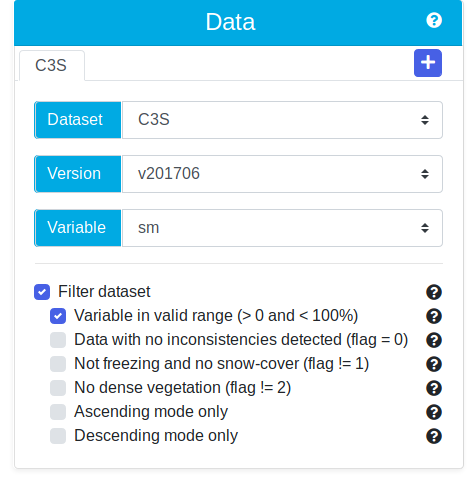
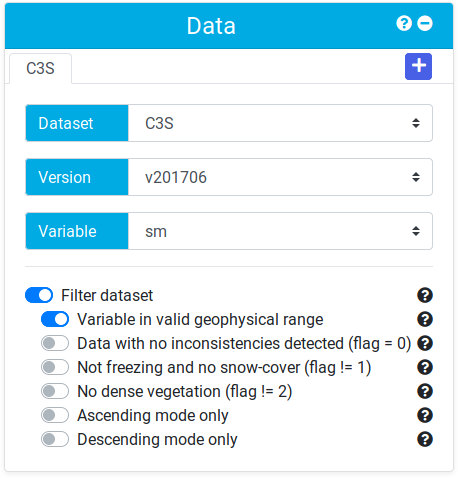
Update online help with new screenshots and description for anomalies and spatial subsetting

Changed region(s): [[0.0611, 0.5565, 0.9476, 0.9372], [0.0306, 0.205, 0.9476, 0.5272], [0.0, 0.0, 1.0, 0.9665]]

diff --git a/validator/templates/validator/help.html b/validator/templates/validator/help.html
@@ -22,6 +22,16 @@
     <h1 class="h3 mb-3 font-weight-normal">Validate Page</h1>
 
     <p>
+        The validate page is subdivided into areas for the various validation parameters. Each area has
+        menu with two icons on the top right. Hover over the question mark to get help for the respective areas. You can
+        use the +/- icon to fold up or fold down the area.
+    </p>
+    <div style="display:flex;">
+        <img class="scaled_image mb-3" src="../../static/images/help/menu_minus.png">
+        <img class="scaled_image mb-3" src="../../static/images/help/menu_plus.png">
+    </div>
+
+    <p>
         <b>Step 1</b> - Choose the data you would like to validate - including the dataset name, the version of the dataset,
         and one of the soil moisture variables provided in the dataset. More details on the supported datasets can be found
         <a href="{% url 'datasets' %}#data">here</a>.
@@ -60,18 +70,40 @@
     <p>
         <b>Step 5 [optional]</b> - Choose the criteria by which you would like to filter the reference data prior to
         running the validation. The filters available depend on the data contained within the chosen dataset. For example,
-        you can filter the ISMN data to include only data points where the soil_moisture_flag is "G" for "good".
+        you can filter the ISMN data to include only data points where the soil_moisture_flag is &quot;G&quot; for &quot;good&quot;.
         Details of the filter options provided for each dataset are given on the supported datasets page
         <a href="{% url 'datasets' %}">here</a>. You can also hover your mouse pointer over the question mark next to a filter
         to get a short explanation.
     </p>
     <p>
-        <b>Step 6</b> - Choose the date range over which the validation should be performed. Accepted formats are: YYYY*MM*DD
-        or DD*MM*YYYY where * can be any of ".", "/" or "-".
+        <b>Step 6 [optional]</b> - If you want to calculate metrics from anomalies instead of absolute values, select the desired method
+        in the &quot;Method&quot; drop-down menu. The options are:
     </p>
-    <img class="scaled_image mb-3" src="../../static/images/help/validate_02.png">
+    <ul>
+        <li>Do not calculate: don't calculate anomalies, use absolute values.</li>
+        <li>35 day moving average: calculate the differences between each measurement value and the 35 day moving average around the value.</li>
+        <li>Climatology: calculate the differences between each measurement value and the climatology value for that day of the year. The climatology
+        is calculated producing an average for each day of the year across the input dataset over the given climatology period. You have to specify
+        which years to use for climatology calculation.</li>
+    </ul>
+    <img class="scaled_image mb-3" src="../../static/images/help/anomalies.png">
     <p>
-        <b>Step 7</b> - Choose how the data (or reference) will be scaled before metrics calculation.
+        <b>Step 7 [optional]</b> - Chose the geographic area over which the validation should be performed. You can either specify a lat/lon bounding
+        box directly or you can select the area on a map by clicking the globe button. The trash button will clear all four bounding
+        box fields.<br/>
+        If you don't specify an area, a global validation will be done.
+    </p>
+    <img class="scaled_image mb-3" src="../../static/images/help/spatial_subsetting.png">
+    <img class="scaled_image mb-3" src="../../static/images/help/map_selection.png">
+    <p>
+        <b>Step 8 [optional]</b> - Choose the date range over which the validation should be performed. Accepted formats are: YYYY*MM*DD
+        or DD*MM*YYYY where * can be any of &quot;.&quot;, &quot;/&quot; or &quot;-&quot;. If you don't provide a period it will be
+        implicitly determined through temporal matching of the data and reference selected. For the time range covered by the various
+        datasets, see the <a href="{% url 'datasets' %}">datasets page</a>.
+    </p>
+    <img class="scaled_image mb-3" src="../../static/images/help/validation_period.png">
+    <p>
+        <b>Step 9</b> - Choose how the data (or reference) will be scaled before metrics calculation.
         The data can be scaled to the reference (default) or vice versa.
         Note that in an intercomparision validation (with multiple datasets), only scaling to reference
         is possible.
@@ -81,17 +113,17 @@
     <img class="scaled_image mb-3" src="../../static/images/help/scaling.png">
 
     <p>
-        <b>Step 8</b> - Optionally name your validation results to make it easier to identify it in
+        <b>Step 10</b> - Optionally name your validation results to make it easier to identify it in
         the list of all your validations.
     </p>
     <img class="scaled_image mb-3" src="../../static/images/help/name_your_validation.png">
 
     <p>
-        <b>Step 9</b> - Run the validation process. You'll be notified via e-mail once it's
+        <b>Step 11</b> - Run the validation process. You'll be notified via e-mail once it's
         finished. You don't need to keep the results window (or even your browser) open for
         the validation to run. The email will contain a link to your results.
     </p>
-    <img class="scaled_image mb-3" src="../../static/images/help/validate_06.png">
+    <img class="scaled_image mb-3" src="../../static/images/help/validate_button.png">
 
     <a id="results_list"></a>
     <h1 id="help3" class="h3 mb-3 font-weight-normal">My Validations - Results List Page</h1>
@@ -128,7 +160,7 @@
     <h1 class="h3 mb-3 font-weight-normal">Validation Results Page</h1>
 
     <p>
-        Once the validation process is finished, you can see short summary of the validation run
+        Once the validation process is finished, you can see a summary of the validation run
         on the results page.
     </p>
     <img class="scaled_image mb-3" src="../../static/images/help/results_overview.png">
